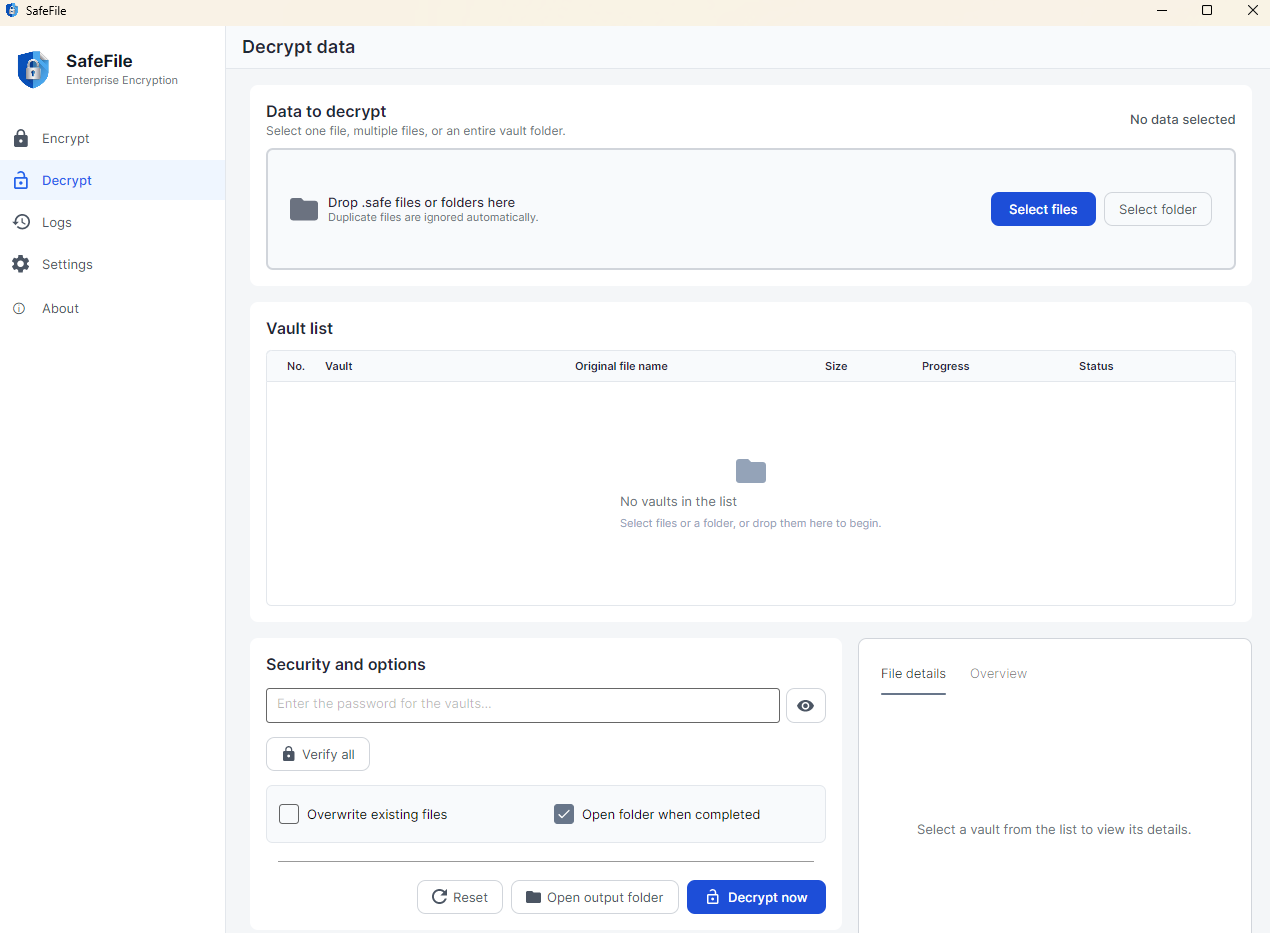
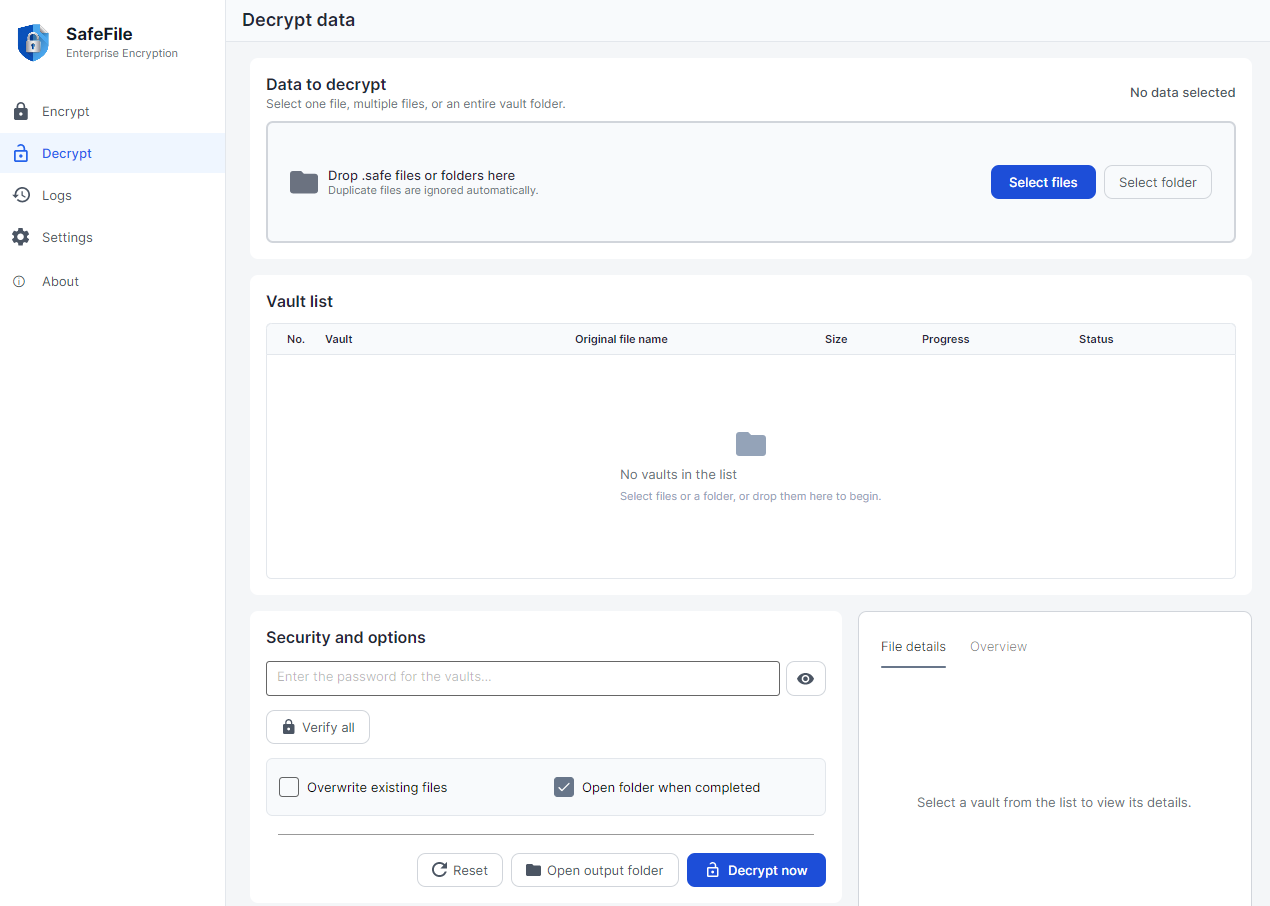
Update README and screenshots for UI and security info
README clarifies not to use public issues for security reports and points to the private reporting channel. Removed a copyright line and centered tagline. Updated screenshots and overview image to reflect recent UI changes.

diff --git a/README.md b/README.md
@@ -246,15 +246,3 @@ is available.
 ## License
 
 SafeFile is available under the [MIT License](LICENSE).
-
-```text
-Copyright (c) 2026 kevinxvu
-```
-
----
-
-<div align="center">
-
-**Your files stay yours. Your password is the key.**
-
-</div>
